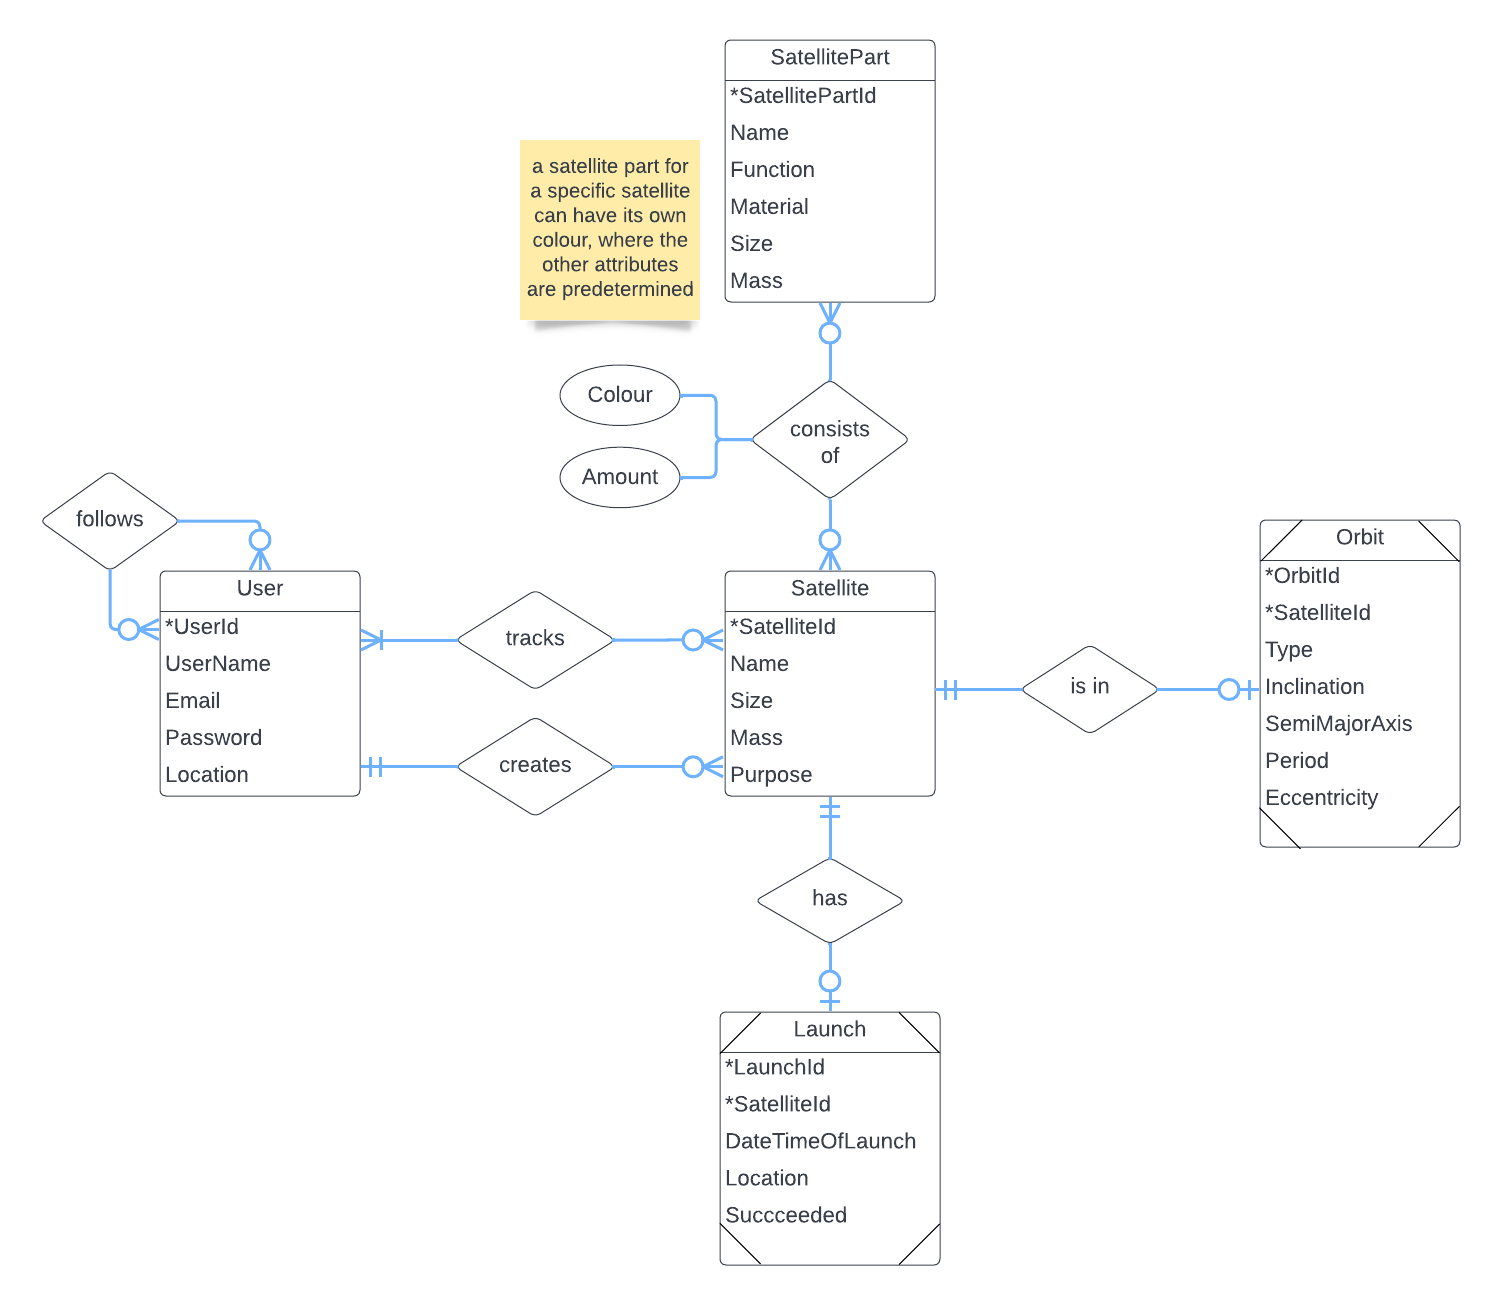
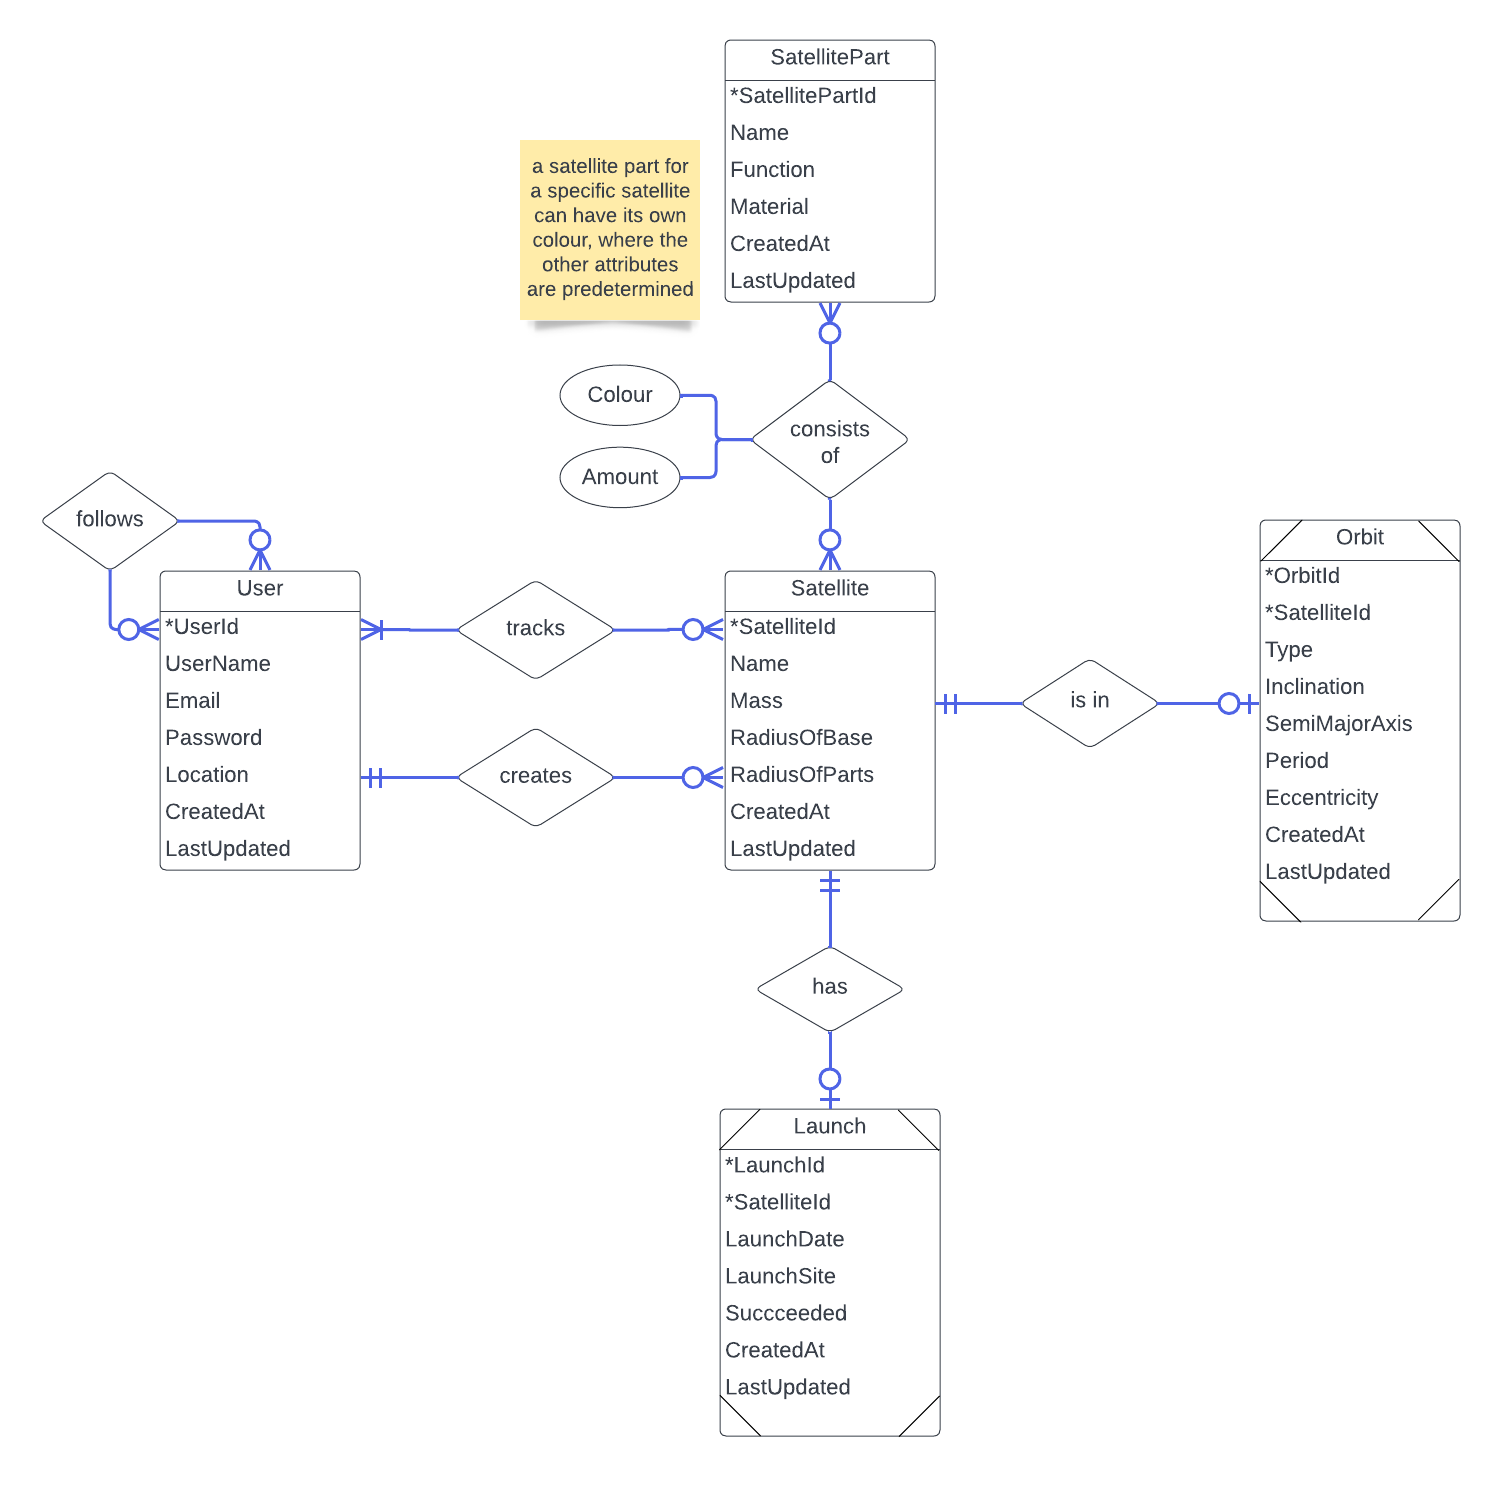
last changes for first deadline

diff --git a/apps/SatelliteTracker/src/app/pages/about/about.component.html b/apps/SatelliteTracker/src/app/pages/about/about.component.html
@@ -33,7 +33,7 @@
 
   <div class="entities-wrapper">
     <div class="col">
-      <h3>satellite</h3>
+      <h3>Satellite</h3>
       <ul>
         <li>id: string</li>
         <li>name: string</li>
@@ -46,11 +46,11 @@
         <li>orbit: orbit</li>
         <li>launch: launch</li>
         <li>createdAt: date</li>
-        <li>updatedAt: date</li>
+        <li>lastUpdated: date</li>
       </ul>
     </div>
     <div class="col">
-      <h3>satellitePart</h3>
+      <h3>Satellite Part</h3>
       <ul>
         <li>id: string</li>
         <li>name: string</li>
@@ -59,11 +59,11 @@
         <li>colour: string</li>
         <li>amount: number</li>
         <li>createdAt: date</li>
-        <li>updatedAt: date</li>
+        <li>lastUpdated: date</li>
       </ul>
     </div>
     <div class="col">
-      <h3>orbit</h3>
+      <h3>Orbit</h3>
       <ul>
         <li>id: string</li>
         <li>type: string</li>
@@ -72,22 +72,22 @@
         <li>period: number</li>
         <li>eccentricity: number</li>
         <li>createdAt: date</li>
-        <li>updatedAt: date</li>
+        <li>lastUpdated: date</li>
       </ul>
     </div>
     <div class="col">
-      <h3>launch</h3>
+      <h3>Launch</h3>
       <ul>
         <li>id: string</li>
         <li>launchDate: date</li>
         <li>launchSite: location</li>
         <li>succeeded: boolean</li>
         <li>createdAt: date</li>
-        <li>updatedAt: date</li>
+        <li>lastUpdated: date</li>
       </ul>
     </div>
     <div class="col">
-      <h3>user</h3>
+      <h3>User</h3>
       <ul>
         <li>id: string</li>
         <li>userName: string</li>
@@ -95,11 +95,11 @@
         <li>password: string</li>
         <li>location: location</li>
         <li>createdAt: date</li>
-        <li>updatedAt: date</li>
+        <li>lastUpdated: date</li>
       </ul>
     </div>
     <div class="col">
-      <h3>location</h3>
+      <h3>Location</h3>
       <ul>
         <li>type: string</li>
         <li>coordinates: number[]</li>

diff --git a/apps/SatelliteTracker/src/app/pages/about/about.component.ts b/apps/SatelliteTracker/src/app/pages/about/about.component.ts
@@ -23,9 +23,8 @@ const USERSTORY_DATA: UserStory[] = [
   { no: 2, story: 'I want to customise the colour of a satellite part that I add to my satellite.', clarification: '' },
   {
     no: 3,
-    story:
-      'I can create the orbit that I want the satellite to follow. A satellite cannot be launched if it does not have an orbit.',
-    clarification: '',
+    story: 'I can create the orbit that I want the satellite to follow.',
+    clarification: 'A satellite cannot be launched if it does not have an orbit.',
   },
   {
     no: 4,
@@ -35,16 +34,15 @@ const USERSTORY_DATA: UserStory[] = [
   },
   {
     no: 5,
-    story:
-      'I want to be able to edit and delete satellites, orbits and launches that I’ve created. The entities can no longer be edited when a satellite is launched, but they can be deleted. ',
-    clarification: '',
+    story: 'I want to be able to edit and delete satellites, orbits and launches that I’ve created.',
+    clarification: 'The entities can no longer be edited when a satellite is launched, but they can be deleted.',
   },
   { no: 6, story: 'As a user I want to be able to follow satellites made by other people.', clarification: '' },
   { no: 7, story: 'I want to know when the satellites I follow are being launched. ', clarification: '' },
   {
     no: 8,
     story: 'Of the satellites that I`m following, I want to see if they are visible at my location at a given time.',
-    clarification: '',
+    clarification: 'The user can choose the date and time.',
   },
   {
     no: 9,

diff --git a/apps/SatelliteTracker/src/app/pages/user/user.component.html b/apps/SatelliteTracker/src/app/pages/user/user.component.html
@@ -53,20 +53,13 @@
         </td>
       </ng-container>
 
-      <!-- Edit Column -->
-      <ng-container matColumnDef="edit">
+      <!-- Button Column -->
+      <ng-container matColumnDef="buttons">
         <th mat-header-cell *matHeaderCellDef></th>
-        <td mat-cell class="edit icon" layout-align="center center" *matCellDef="let user">
+        <td mat-cell class="icon" layout-align="center center" *matCellDef="let user">
           <button mat-flat-button color="accent" [routerLink]="user.username + '/edit'">
             <mat-icon>edit</mat-icon>
           </button>
-        </td>
-      </ng-container>
-
-      <!-- Delete Column -->
-      <ng-container matColumnDef="delete">
-        <th mat-header-cell *matHeaderCellDef></th>
-        <td mat-cell class="delete icon" layout-align="center center" *matCellDef="let user">
           <button mat-flat-button color="warn" (click)="removeUser(user.id)">
             <mat-icon>delete</mat-icon>
           </button>

diff --git a/apps/SatelliteTracker/src/app/pages/user/user.component.ts b/apps/SatelliteTracker/src/app/pages/user/user.component.ts
@@ -9,7 +9,7 @@ import { UserService } from './user.service';
 })
 export class UserComponent implements OnInit {
   users: User[] = [];
-  displayedColumns: string[] = ['id', 'name', 'latitude', 'longitude', 'createdAt', 'updatedAt', 'edit', 'delete'];
+  displayedColumns: string[] = ['id', 'name', 'latitude', 'longitude', 'createdAt', 'updatedAt', 'buttons'];
   constructor(private userService: UserService) {}
 
   ngOnInit(): void {

diff --git a/apps/SatelliteTracker/src/app/pages/about/about.component.scss b/apps/SatelliteTracker/src/app/pages/about/about.component.scss
@@ -31,7 +31,7 @@ a {
 
 .entities-wrapper {
   display: grid;
-  grid-template-columns: 1fr 1fr 1fr;
+  grid-template-columns: repeat(auto-fit, minmax(220px, 1fr));
 }
 
 .row {
@@ -49,5 +49,10 @@ a {
 }
 
 h3 {
-  border-bottom: 1px solid #ccc;
+  border-bottom: 1px solid rgb(83, 83, 83);
+  padding-left: 10px;
+}
+
+.col {
+  border: 1px solid #ccc;
 }

diff --git a/apps/SatelliteTracker/src/app/pages/user/user.component.scss b/apps/SatelliteTracker/src/app/pages/user/user.component.scss
@@ -13,7 +13,7 @@ table {
 }
 
 .mat-cell.icon {
-  text-align: center;
+  text-align: end;
 }
 
 .container {
@@ -22,4 +22,8 @@ table {
 
 .smalltext {
   font-size: 9px;
+}
+
+table button {
+  margin-inline: 5px;
 }
